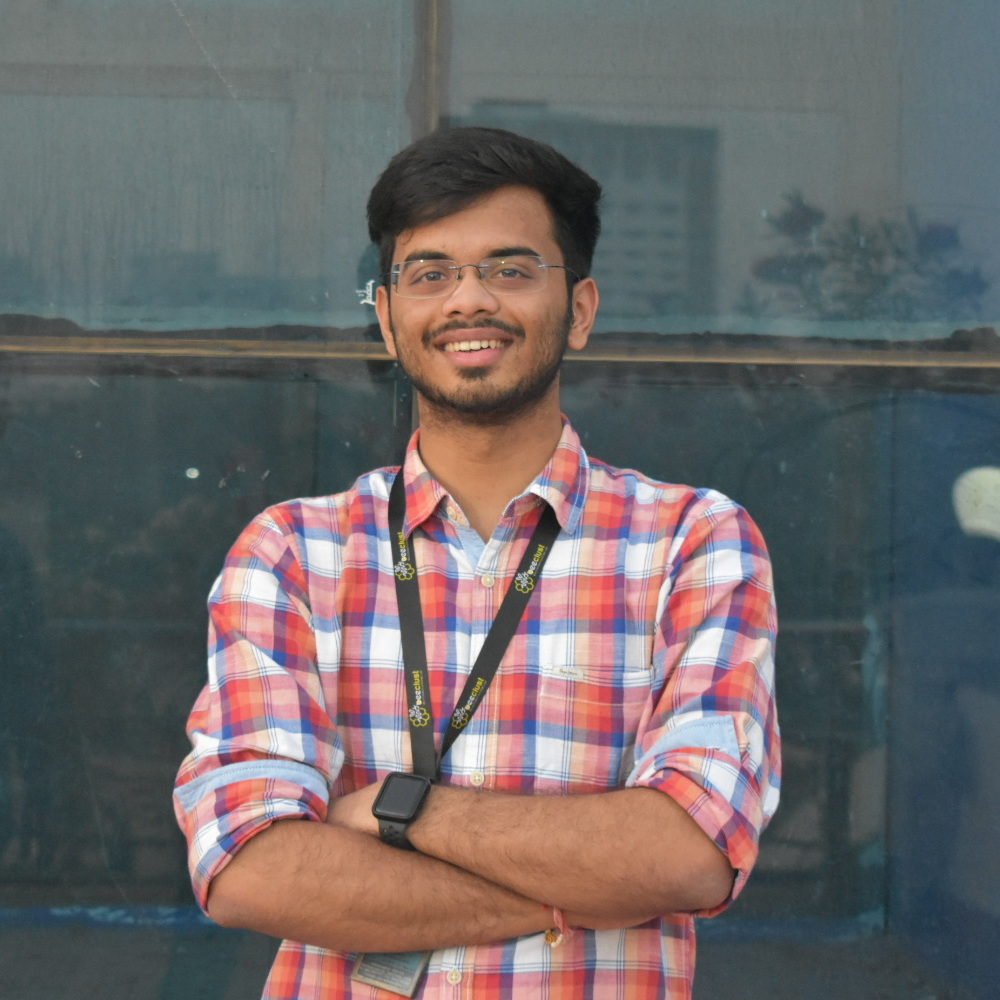
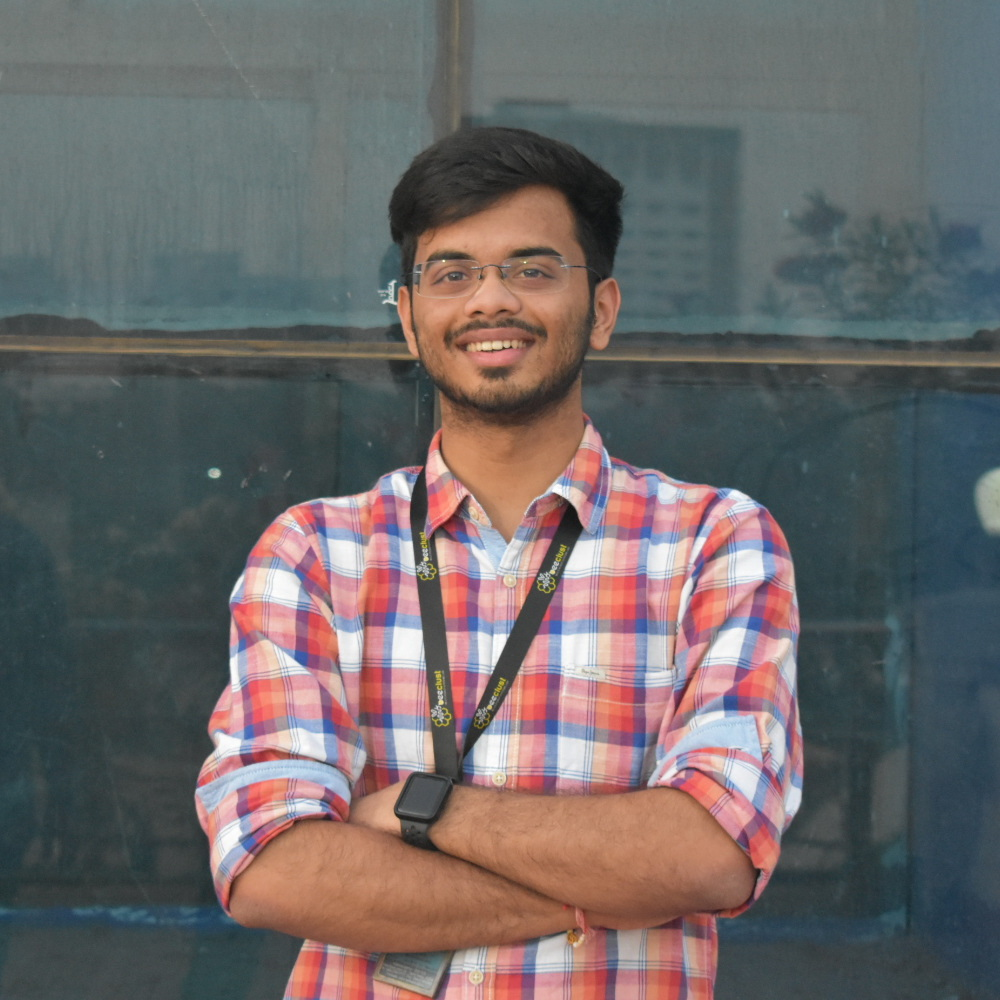
photos added

diff --git a/index.html b/index.html
@@ -9,8 +9,6 @@
         <link rel="stylesheet" type="text/css" href="include/style.css">
         <link href="https://fonts.googleapis.com/css?family=Montserrat&display=swap" rel="stylesheet">
         <link rel="stylesheet" href="https://cdnjs.cloudflare.com/ajax/libs/font-awesome/4.7.0/css/font-awesome.min.css">
-        <link rel="stylesheet" href="https://stackpath.bootstrapcdn.com/font-awesome/4.7.0/css/font-awesome.min.css">
-        <script src="https://ajax.googleapis.com/ajax/libs/jquery/3.4.1/jquery.min.js"></script>
     </head>
     <body>
         <div class="preload">
@@ -61,7 +59,7 @@
                 <div class="line" style="background: white;margin-bottom:40px"></div>
                 <p class="about-para1">
                         "PERFECTION IS ACHIEVED WHEN THERE IS NOTHING MORE TO 
-                        ADD,BUT WHEN THERE IS NOTHING MORE TO TAKE AWAY."
+                        ADD, BUT WHEN THERE IS NOTHING MORE TO TAKE AWAY."
                 </p>
                 <p class="about-para2">
                         The Beeclust MRSL is a research based development team 
@@ -309,7 +307,7 @@
                 </div>
                 <div class="alum_con">
                     <div class="ad-img-con">
-                        <img src="include/kedar.jpg">
+                        <img src="include/pranav.jpg">
                     </div>
                     <div class="alum_info">
                         <p>Pranav Srinivas</p>
@@ -324,7 +322,7 @@
                 </div>
                 <div class="alum_con">
                     <div class="ad-img-con">
-                        <img src="include/kedar.jpg">
+                        <img src="include/AYON.jpg">
                     </div>
                     <div class="alum_info">
                         <p>Ayon Chatterjee</p>
@@ -339,7 +337,7 @@
                 </div>
                 <div class="alum_con">
                     <div class="ad-img-con">
-                        <img src="include/kedar.jpg">
+                        <img src="include/VANSHIKA.jpg">
                     </div>
                     <div class="alum_info">
                         <p>Vanshika Singh</p>
@@ -384,7 +382,7 @@
                 </div>
                 <div class="alum_con">
                     <div class="ad-img-con">
-                        <img src="include/kedar.jpg">
+                        <img src="include/NAMRATA.jpg">
                     </div>
                     <div class="alum_info">
                         <p>Namrata Ghosh</p>
